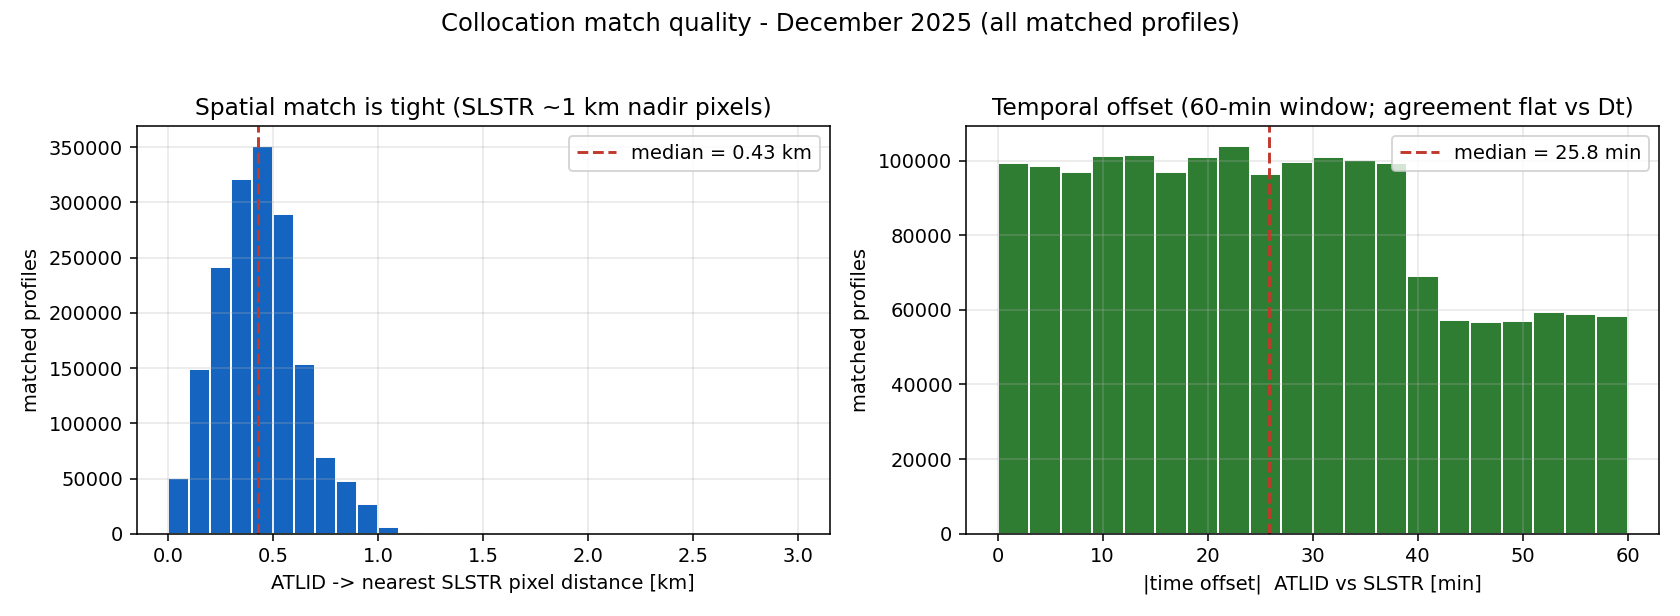
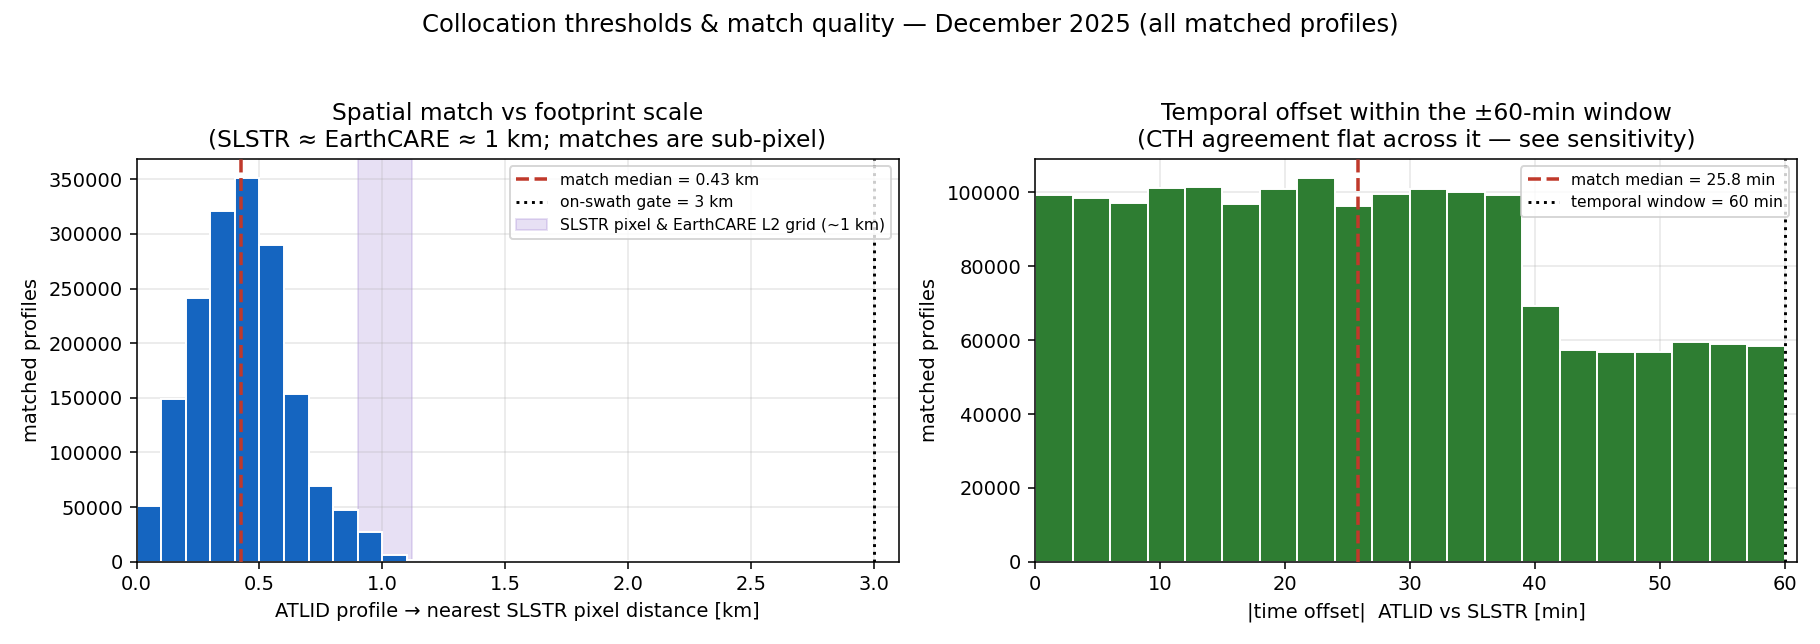
slstr(collocation): density colourmap + threshold/footprint detail in summary
- Collocation map is now an area-normalised DENSITY colourmap (matched profiles
  per 1000 km2, log scale) instead of a scatter blob - shows density peaks at
  ~78-82deg.
- Thresholds figure marks the +-60-min window and 3-km gate, and overlays the
  measured ~1 km SLSTR/EarthCARE footprint band on the distance histogram
  (matches are sub-pixel for both).
- Summary report collocation section expanded: explicit temporal/spatial
  threshold table + measured L2 resolutions (SLSTR 1.1x0.9 km, ATLID/ACM-CAP
  0.99 km) showing no footprint-scale mismatch (unlike SEVIRI 3-7 km).

Changed region(s): [[0.4952, 0.1542, 0.9905, 0.9562], [0.0, 0.1542, 0.4952, 0.9562], [0.2167, 0.0, 0.7738, 0.0617]]

diff --git a/scripts/slstr_collocation_figures.py b/scripts/slstr_collocation_figures.py
@@ -24,6 +24,9 @@ import cartopy.feature as cfeature
 import matplotlib.pyplot as plt
 import numpy as np
 import pandas as pd
+from matplotlib.colors import LogNorm
+
+_R_KM = 6371.0
 
 MATCH_GLOB = "validation_data/slstr_cth_2025-12/matches_cth_*.csv"
 OUT = Path("figures/slstr_collocation")
@@ -44,43 +47,54 @@ def _load_all_matches(cols):
 
 
 # ---------------------------------------------------------------------------
-# 1. Polar collocation map
+# 1. Polar collocation density map
 # ---------------------------------------------------------------------------
 def collocation_map():
     df, nfr = _load_all_matches(["valid_match", "ec_lat", "ec_lon"])
     v = df[df["valid_match"] == True]
     lat, lon = v["ec_lat"].values, v["ec_lon"].values
-    # subsample for plotting
-    rng = np.random.RandomState(0)
-    if lat.size > 120_000:
-        sel = rng.choice(lat.size, 120_000, replace=False)
-        lat_s, lon_s = lat[sel], lon[sel]
-    else:
-        lat_s, lon_s = lat, lon
 
-    fig = plt.figure(figsize=(13, 6.6))
-    for i, (proj, extent, name, mask) in enumerate([
-        (ccrs.NorthPolarStereo(), [-180, 180, 60, 90], "Northern hemisphere", lat_s > 0),
-        (ccrs.SouthPolarStereo(), [-180, 180, -90, -60], "Southern hemisphere", lat_s < 0),
+    # Bin into a lon x lat grid and normalise by cell area -> collocation density
+    # (matched profiles per 1000 km2), so the polar area distortion is removed.
+    lon_edges = np.arange(-180, 181, 3.0)
+    fig = plt.figure(figsize=(13.2, 6.8))
+    ims = []
+    for i, (proj, extent, name, lat_edges, hemi) in enumerate([
+        (ccrs.NorthPolarStereo(), [-180, 180, 63, 90], "Northern hemisphere",
+         np.arange(65, 85.1, 0.5), lat > 0),
+        (ccrs.SouthPolarStereo(), [-180, 180, -90, -63], "Southern hemisphere",
+         np.arange(-85, -64.9, 0.5), lat < 0),
     ]):
         ax = fig.add_subplot(1, 2, i + 1, projection=proj)
         ax.set_extent(extent, ccrs.PlateCarree())
-        ax.add_feature(cfeature.LAND, facecolor="#e8e4dc", zorder=0)
-        ax.add_feature(cfeature.OCEAN, facecolor="#d7e7f2", zorder=0)
+        ax.add_feature(cfeature.LAND, facecolor="#efece6", zorder=0)
+        ax.add_feature(cfeature.OCEAN, facecolor="#dbe9f4", zorder=0)
         ax.coastlines(resolution="110m", linewidth=0.5, color="#555")
-        gl = ax.gridlines(draw_labels=False, linewidth=0.4, color="grey", alpha=0.5)
-        ax.scatter(lon_s[mask], lat_s[mask], s=1.5, c="#c0392b", alpha=0.25,
-                   transform=ccrs.PlateCarree(), zorder=3, edgecolors="none")
-        nn = int((lat > 0).sum()) if i == 0 else int((lat < 0).sum())
-        ax.set_title(f"{name}\nN = {nn:,} matched ATLID profiles", fontsize=11)
+        ax.gridlines(draw_labels=False, linewidth=0.4, color="grey", alpha=0.5)
+
+        H, _, _ = np.histogram2d(lon[hemi], lat[hemi], bins=[lon_edges, lat_edges])
+        # cell area (km^2): R^2 * dlon_rad * (sin(lat2)-sin(lat1))
+        dlon = np.deg2rad(np.diff(lon_edges))[:, None]
+        s = np.sin(np.deg2rad(lat_edges))
+        cell_area = (_R_KM ** 2) * dlon * (s[1:] - s[:-1])[None, :]
+        dens = np.where(H > 0, H / (cell_area / 1000.0), np.nan)   # per 1000 km^2
+        im = ax.pcolormesh(lon_edges, lat_edges, dens.T,
+                           transform=ccrs.PlateCarree(), cmap="inferno",
+                           norm=LogNorm(vmin=np.nanmin(dens[dens > 0]),
+                                        vmax=np.nanmax(dens)), zorder=2)
+        ims.append(im)
+        nn = int(hemi.sum())
+        ax.set_title(f"{name}\nN = {nn:,} matched profiles", fontsize=11)
+    cb = fig.colorbar(ims[-1], ax=fig.axes, shrink=0.65, pad=0.02)
+    cb.set_label("collocation density  [matched profiles per 1000 km$^2$]")
 
     med = float(np.median(np.abs(lat)))
     fig.suptitle(
-        "Where ORAC-SLSTR x EarthCARE-ATLID collocations occur (December 2025)\n"
-        f"{len(v):,} matched profiles from {nfr} A-CTH frames  |  "
-        f"median |latitude| = {med:.1f} deg  |  100% poleward of 60 deg",
+        "Collocation density: ORAC-SLSTR x EarthCARE-ATLID (December 2025)\n"
+        f"{len(v):,} matched profiles, {nfr} A-CTH frames  |  "
+        f"median |lat| = {med:.1f}°  |  range 70.6–83.0°, 100% poleward of 60°",
         fontsize=12.5)
-    fig.tight_layout(rect=[0, 0, 1, 0.93])
+    fig.tight_layout(rect=[0, 0, 0.92, 0.92])
     p = OUT / "collocation_map_polar.png"
     fig.savefig(p, dpi=140); plt.close(fig)
     print("wrote", p)
@@ -95,25 +109,42 @@ def match_quality():
     dist = v["distance_km"].values
     dt = v["time_diff_s"].values / 60.0
 
-    fig, ax = plt.subplots(1, 2, figsize=(12, 4.4))
-    ax[0].hist(dist, bins=np.arange(0, 3.05, 0.1), color="#1565c0", edgecolor="white")
-    ax[0].axvline(np.median(dist), color="#c0392b", lw=1.5, ls="--",
-                  label=f"median = {np.median(dist):.2f} km")
-    ax[0].set_xlabel("ATLID -> nearest SLSTR pixel distance [km]")
-    ax[0].set_ylabel("matched profiles")
-    ax[0].set_title("Spatial match is tight (SLSTR ~1 km nadir pixels)")
-    ax[0].legend(); ax[0].grid(alpha=0.3)
+    fig, ax = plt.subplots(1, 2, figsize=(13, 4.6))
 
-    ax[1].hist(dt, bins=np.arange(0, 61, 3), color="#2e7d32", edgecolor="white")
-    ax[1].axvline(np.median(dt), color="#c0392b", lw=1.5, ls="--",
-                  label=f"median = {np.median(dt):.1f} min")
+    # --- Spatial: distance vs the instrument footprint scales ---
+    ax[0].hist(dist, bins=np.arange(0, 3.05, 0.1), color="#1565c0", edgecolor="white",
+               zorder=2)
+    ax[0].axvline(np.median(dist), color="#c0392b", lw=1.8, ls="--", zorder=4,
+                  label=f"match median = {np.median(dist):.2f} km")
+    # footprint / resolution reference scales (measured, ~1 km each)
+    ax[0].axvspan(0.9, 1.12, color="#7e57c2", alpha=0.18, zorder=1,
+                  label="SLSTR pixel & EarthCARE L2 grid (~1 km)")
+    ax[0].axvline(3.0, color="k", lw=1.5, ls=":", zorder=4,
+                  label="on-swath gate = 3 km")
+    ax[0].set_xlabel("ATLID profile → nearest SLSTR pixel distance [km]")
+    ax[0].set_ylabel("matched profiles")
+    ax[0].set_title("Spatial match vs footprint scale\n"
+                    "(SLSTR ≈ EarthCARE ≈ 1 km; matches are sub-pixel)")
+    ax[0].set_xlim(0, 3.1)
+    ax[0].legend(fontsize=8); ax[0].grid(alpha=0.3)
+
+    # --- Temporal ---
+    ax[1].hist(dt, bins=np.arange(0, 61, 3), color="#2e7d32", edgecolor="white",
+               zorder=2)
+    ax[1].axvline(np.median(dt), color="#c0392b", lw=1.8, ls="--", zorder=4,
+                  label=f"match median = {np.median(dt):.1f} min")
+    ax[1].axvline(60, color="k", lw=1.5, ls=":", zorder=4,
+                  label="temporal window = 60 min")
     ax[1].set_xlabel("|time offset|  ATLID vs SLSTR [min]")
     ax[1].set_ylabel("matched profiles")
-    ax[1].set_title("Temporal offset (60-min window; agreement flat vs Dt)")
-    ax[1].legend(); ax[1].grid(alpha=0.3)
+    ax[1].set_title("Temporal offset within the ±60-min window\n"
+                    "(CTH agreement flat across it — see sensitivity)")
+    ax[1].set_xlim(0, 61)
+    ax[1].legend(fontsize=8); ax[1].grid(alpha=0.3)
 
-    fig.suptitle("Collocation match quality - December 2025 (all matched profiles)", fontsize=12.5)
-    fig.tight_layout(rect=[0, 0, 1, 0.95])
+    fig.suptitle("Collocation thresholds & match quality — December 2025 "
+                 "(all matched profiles)", fontsize=12.5)
+    fig.tight_layout(rect=[0, 0, 1, 0.94])
     p = OUT / "match_quality.png"
     fig.savefig(p, dpi=140); plt.close(fig)
     print("wrote", p)

diff --git a/docs/reports/slstr_validation_summary_2025-12.md b/docs/reports/slstr_validation_summary_2025-12.md
@@ -47,10 +47,12 @@ Result: of **1.71 M matches, every one is at |lat| 70.6–83.0°**; the tropical
 mid-latitude bands come back **N = 0**. This is the standard "simultaneous nadir
 overpass" geometry, not a processing decision.
 
-![Where the collocations occur](../../figures/slstr_collocation/collocation_map_polar.png)
+![Collocation density](../../figures/slstr_collocation/collocation_map_polar.png)
 
-*All matched ATLID profiles ring 70–82° in both hemispheres (853 k N, 860 k S).
-The pole itself is empty — EarthCARE's orbit inclination does not overfly it.*
+*Collocation density (matched profiles per 1000 km², area-normalised) rings
+70–82° in both hemispheres (853 k N, 860 k S). Density peaks in a band around
+75–80° and falls to zero at the pole itself — EarthCARE's orbit inclination does
+not overfly it.*
 
 **Complementarity:** the geostationary **SEVIRI** validation covers ±60°; SLSTR
 covers the poles. Together they span pole-to-tropics against the same ATLID truth.
@@ -63,27 +65,57 @@ covers the poles. Together they span pole-to-tropics against the same ATLID trut
 the 1-D ATLID nadir track threading across it. Each match pairs one lidar profile
 with the SLSTR pixel it falls in — here at 0.37 km median separation.*
 
-### 2.3 Thresholds and their justification
+### 2.3 The two thresholds
 
-- **Temporal ±60 min**, **spatial nearest-pixel (3 km on-swath gate)**. Real
-  matches: **median 0.43 km**, and the time offset fills the 60-min window.
+Each matched pair must satisfy a **temporal** and a **spatial** condition:
 
-![Match quality](../../figures/slstr_collocation/match_quality.png)
+| Threshold | Value | What the matches actually are |
+| --------- | ----- | ----------------------------- |
+| **Temporal** | \|Δt\| ≤ **60 min** | median offset **26 min**; offsets fill the window |
+| **Spatial** | nearest pixel, **≤ 3 km** on-swath gate | median **0.43 km**, max ~1.1 km — sub-pixel |
 
-- **Why 60 min:** agreement is flat with Δt. The crossing-geometry sweep shows
-  matches stay polar and the CTH statistics do not degrade from 5 to 120 min —
-  the tight ~0.4 km spatial match dominates.
+![Collocation thresholds & match quality](../../figures/slstr_collocation/match_quality.png)
+
+#### Spatial threshold vs the instrument footprints
+
+The 3 km gate is not an averaging radius — it is a swath-membership test. Its
+value is best read against the horizontal resolution of the two datasets, which
+we **measured from the data** (adjacent-pixel / adjacent-profile spacing):
+
+| Dataset | Nominal instrument footprint | Measured L2 horizontal grid |
+| ------- | ---------------------------- | --------------------------- |
+| **SLSTR** (nadir, ORAC cloud) | 1 km TIR / 0.5 km solar | **1.1 × 0.9 km** |
+| **ATLID** (A-CTH, A-EBD)      | ~30 m spot, ~285 m sampling | **0.99 km** along-track |
+| **ACM-CAP** (ATLID+CPR+MSI synergy) | CPR ~750 m, MSI 500 m | **0.99 km** along-track |
+
+The two datasets are matched at **~1 km each**, so the ~0.43 km median separation
+is **sub-pixel for both** — there is essentially no footprint-scale mismatch. This
+is a marked contrast with the SEVIRI validation, where 3–7 km geostationary pixels
+had to be matched to the ~1 km ATLID track. The 3 km gate simply excludes profiles
+that fall *outside* a swath (nearest pixel then jumps to tens of km); it is ~3×
+the pixel and, being far above the 0.43 km match median, is not a tuning knob —
+loosening or tightening it 2–3× changes nothing (§2.4).
+
+#### Temporal threshold — why 60 min
+
+Agreement is flat with Δt: the crossing-geometry sweep shows the matches stay
+polar and the CTH statistics do not degrade from 5 to 120 min — the tight ~1 km
+spatial match dominates, and polar clouds evolve slowly.
 
 ![Δt sweep](../../figures/slstr_dt_sweep/slstr_dt_sweep.png)
 
-- **Insensitive to both thresholds:** across Δt ∈ {15,30,45,60} min × distance
-  cap ∈ {1,2,3} km, CTH bias stays −0.55…−0.57 km, RMSE 2.08…2.11, R 0.58…0.60.
+### 2.4 Both thresholds are non-binding — sensitivity
+
+Across Δt ∈ {15, 30, 45, 60} min × distance cap ∈ {1, 2, 3} km, the CTH statistics
+barely move: **bias −0.55…−0.57 km, RMSE 2.08…2.11 km, R 0.58…0.60**. The distance
+cap hardly changes N (matches are almost all < 1 km already).
 
 ![Threshold sensitivity](../../figures/slstr_sensitivity/slstr_cth_sensitivity.png)
 
-*Neither loosening time nor distance helps reach lower latitudes: to match a
-mid-latitude point you would need Δt of hours (clouds change) or distance of
-hundreds of km (different clouds) — either way it stops being a valid match.*
+*And neither threshold can be relaxed to reach lower latitudes without breaking
+the comparison: a mid-latitude match would require Δt of hours (clouds change) or
+a distance of hundreds of km (different clouds). The poles are the only place both
+can be small at once.*
 
 ---
 
